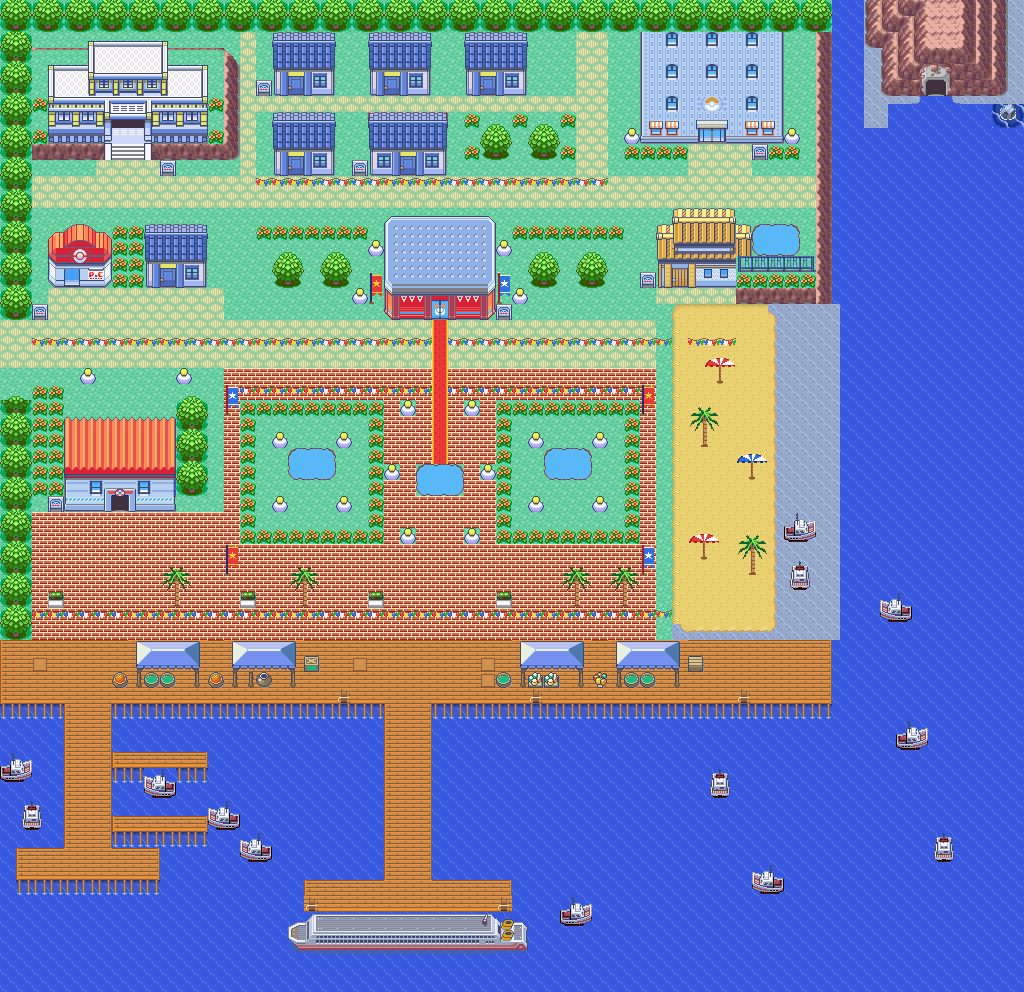
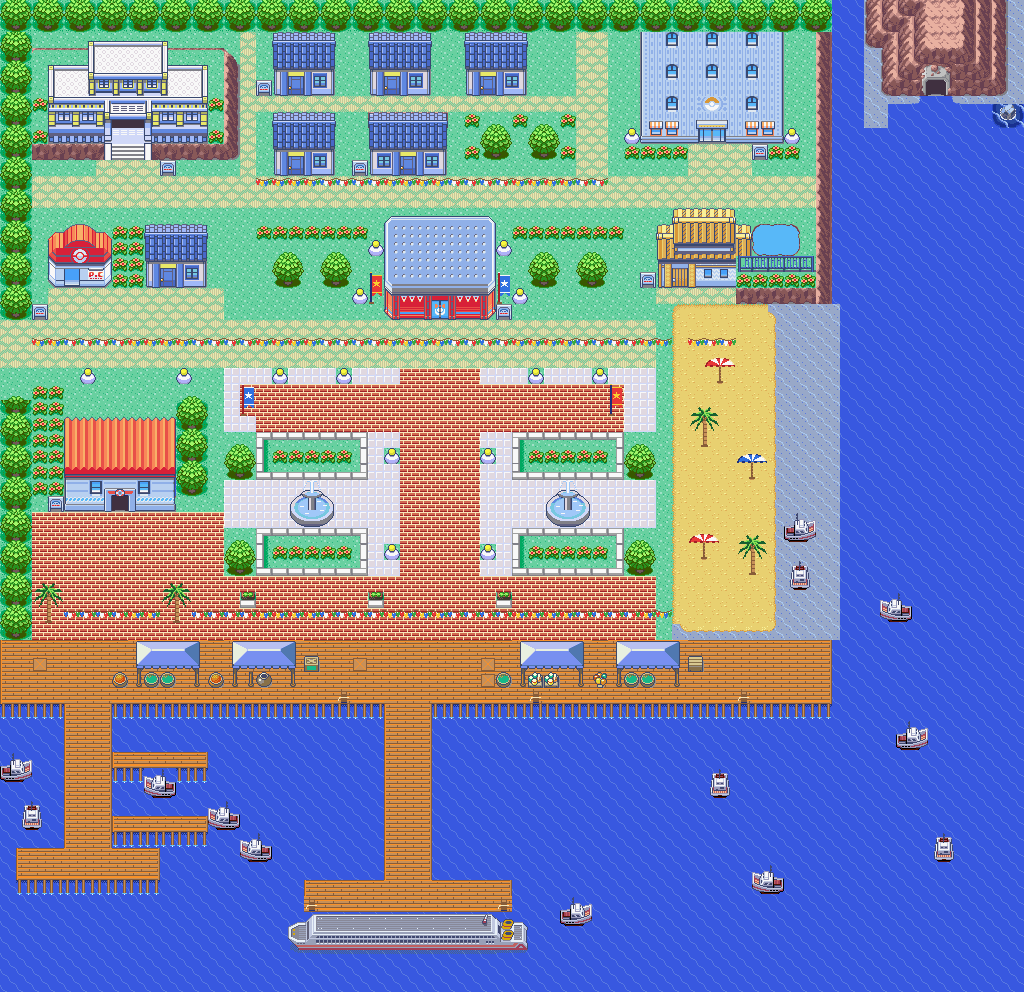
Plaza: grey tiles, inverted brick cross, fountains with flowerbeds
- Grey square tiles (drawn in Lilycove palette 8) frame the plaza.
- Brick floor forms an inverted cross pointing at the Contest Hall.
- Two new stone fountains in Emerald style, each between flowerbeds
  built from the game's white stone kerb tiles with flowers.
- Medium trees on the edges, lamp posts along the brick path; the red
  carpet and the old pond fountains are gone.

Claude-Session: https://claude.ai/code/session_015nAeBdQj1XXGE9TrWVaT6H

Changed region(s): [[0.2188, 0.3125, 0.6562, 0.5938], [0.1562, 0.5625, 0.1875, 0.625], [0.0312, 0.5938, 0.0625, 0.625]]

diff --git a/dev_scripts/lilycove_redesign/plaza_art.py b/dev_scripts/lilycove_redesign/plaza_art.py
@@ -1,0 +1,76 @@
+"""Plaza pieces drawn/recoloured into Lilycove palette 8 (greys + blues), so they sit
+with the rest of Emerald's art: grey paving (Slateport's paving pattern, recoloured)
+and a round stone fountain with a dark outline and 3-tone shading."""
+import math, struct, os
+from PIL import Image
+import render
+
+PAL8_SLOT = 8
+# palette 8 indices
+OUT, DGR, MGR, LGR, WH = 7, 6, 5, 8, 11
+PALE, LB1, LB2, B1, B2 = 1, 9, 10, 3, 4
+
+def _canvas(w, h): return [[0] * w for _ in range(h)]
+def _px(c, x, y, v):
+    if 0 <= y < len(c) and 0 <= x < len(c[0]): c[y][x] = v
+
+def paving():
+    """16x16 grey square tiles (4 per metatile): light face, subtle grout, top-left highlight."""
+    c = _canvas(16, 16)
+    for y in range(16):
+        for x in range(16):
+            gx, gy = x % 8, y % 8
+            if gx == 7 or gy == 7: v = PALE                 # grout
+            elif gx == 0 or gy == 0: v = WH if (gx + gy) < 6 else LGR
+            else: v = LGR
+            c[y][x] = v
+    return c
+
+def fountain():
+    """48x48 round stone fountain seen from above (3/4 view)."""
+    c = _canvas(48, 48)
+    cx, cy, rx, ry = 23.5, 27.0, 21.0, 14.0
+    # front wall of the basin (below the rim)
+    for y in range(48):
+        for x in range(48):
+            e = ((x - cx) / rx) ** 2 + ((y - cy) / ry) ** 2
+            e2 = ((x - cx) / rx) ** 2 + ((y - cy - 5) / ry) ** 2
+            if e > 1 and e2 <= 1 and y > cy:
+                c[y][x] = MGR if y < cy + ry + 3 else DGR
+    # rim + water
+    for y in range(48):
+        for x in range(48):
+            e = ((x - cx) / rx) ** 2 + ((y - cy) / ry) ** 2
+            if e <= 1:
+                if e > 0.70: c[y][x] = LGR if y < cy else PALE          # stone rim
+                else:
+                    c[y][x] = LB1 if e < 0.45 else LB2
+                    if y < cy - 4 and e > 0.5: c[y][x] = B1               # shadow of the rim
+    # ripples
+    for (x0, y0) in [(12, 26), (32, 30), (17, 33), (29, 21), (35, 25)]:
+        for dx in range(4): _px(c, x0 + dx, y0, WH)
+    # pedestal (column) and upper bowl
+    for y in range(15, 30):
+        for x in range(20, 28): c[y][x] = OUT if x in (20, 27) else (LGR if x < 23 else (MGR if x < 26 else DGR))
+    for y in range(9, 19):
+        for x in range(12, 36):
+            e = ((x - 23.5) / 10.5) ** 2 + ((y - 14) / 4.0) ** 2
+            if e <= 1: c[y][x] = (OUT if e > 0.8 and y >= 14 else (LGR if y < 14 else MGR))
+            ein = ((x - 23.5) / 7.5) ** 2 + ((y - 13.5) / 2.2) ** 2
+            if ein <= 1: c[y][x] = LB1 if y >= 13 else LB2
+    # dark outline around the stone parts
+    out = [row[:] for row in c]
+    for y in range(48):
+        for x in range(48):
+            if c[y][x] == 0 and any(0 <= y + dy < 48 and 0 <= x + dx < 48 and c[y + dy][x + dx]
+                                    for dx, dy in ((1, 0), (-1, 0), (0, 1), (0, -1))):
+                out[y][x] = OUT
+    # water jet and falling drops (no outline, like Emerald's water effects)
+    for y in range(1, 13):
+        for x in range(22, 26): out[y][x] = WH if x in (23, 24) else LB1
+    for x in range(19, 29): _px(out, x, 1, WH if 21 < x < 26 else LB1)
+    for (x, y) in [(18, 3), (17, 5), (16, 7), (29, 3), (30, 5), (31, 7), (15, 9), (32, 9)]:
+        _px(out, x, y, LB1)
+    for (x, y) in [(17, 4), (30, 4), (16, 8), (31, 8)]:
+        _px(out, x, y, WH)
+    return out

diff --git a/dev_scripts/lilycove_redesign/layout.py b/dev_scripts/lilycove_redesign/layout.py
@@ -36,17 +36,21 @@ path(0,20,42,23)
 
 # boulevard lamps
 for x in (5,11,35,39): lamp(x,23)
-# ================= PLAZA (y23-35) =================
-brickfill(14,23,41,36)
-for gx in (15,31):
-    fill(gx,25,gx+9,34,GRASS)
-    flowers(gx,25,gx+9,26); flowers(gx,33,gx+9,34)
-    flowers(gx,26,gx+1,33); flowers(gx+8,26,gx+9,33)
-    pond(gx+3,28)
-    lamp(gx+2,27); lamp(gx+6,27); lamp(gx+2,31); lamp(gx+6,31)
-# central axis: avenue of lamps & flower pots towards pier
-for y in (25,33): lamp(25,y); lamp(29,y)
-lamp(24,29); lamp(30,29)
+# ================= PLAZA (y23-35): grey tiles, inverted brick cross, fountains =================
+PX0,PX1,PY0,PY1 = 14,41,23,36          # plaza area; axis x=27 (Contest Hall door)
+paving(PX0,PY0,PX1,PY1)                # grey tiles: contour and floor
+brickfill(25,PY0,30,PY1)               # long arm of the cross, pointing at the hall
+brickfill(16,24,39,27)                 # cross bar, right below the hall
+for qx,flip in ((14,False),(30,True)): # the two lower quadrants (11 x 9)
+    fx = qx+4                          # fountain column
+    flowerbed(qx+2,27,7,3)             # bed above the fountain
+    flowerbed(qx+2,33,7,3)             # bed below the fountain
+    art('fountain',fx,30,bottom='paving')
+    tx = qx if not flip else qx+9      # medium trees on the outer edge
+    tree1(tx,27); tree1(tx,33)
+    lx = qx+10 if not flip else qx     # lamp posts along the brick path
+    lamp(lx,28); lamp(lx,34)
+for x in (17,21,33,37): lamp(x,23)     # lamps along the top contour
 # ================= HARBOR (left) =================
 harbor(4,26)                                 # door (7,31)
 brickfill(2,32,14,36)
@@ -81,20 +85,17 @@ for yy in range(4,8): put(54,yy,SHALLOW)
 # promenade planters (avoid pier axes x=7, x=27)
 for x in (3,15,23,31): put(x,37,T(0x005,1,0))
 # central fountain on main axis
-pond(26,29)
 # sign posts for bg_events
 for sx,sy in [(10,10),(47,9),(2,19),(31,19),(40,17),(3,31),(22,10),(16,5)]: sign(sx,sy)
 
 # ================= FESTIVAL DRESSING (World Contest Season) =================
-carpet(27,20,29)                                   # red carpet hall -> fountain
 for bx,blue in ((23,False),(31,True)): banner(bx,17,'grass',blue)
-for bx,by,blue in ((14,24,True),(40,24,False),(14,34,False),(40,34,True)): banner(bx,by,'brick',blue)
+for bx,blue in ((15,True),(38,False)): banner(bx,24,'brick',blue)   # season banners at the ends of the cross bar
 bunting(2,46,21)                                   # across the avenue
-bunting(15,40,24)                                  # plaza north edge
 bunting(2,42,38)                                   # promenade
 bunting(16,38,11)                                  # north street
 # palms along the promenade
-for px_ in (10,18,35,38): palm(px_,35,'brick')
+for px_ in (2,10): palm(px_,36,'brick')   # promenade palms, outside the plaza
 # beach: umbrellas + palms
 umbrella(44,22); umbrella(46,28,True); umbrella(43,33)
 palm(43,25); palm(46,33)

diff --git a/dev_scripts/lilycove_redesign/compose.py b/dev_scripts/lilycove_redesign/compose.py
@@ -104,3 +104,17 @@ def art(name,x,y,pal=None,bottom='water',walk_rows=0):
         for mx in range(w):
             walk = my<walk_rows
             put(x+mx,y+my,('ART',(name,mx,my,pal,bottom),0 if walk else 1,3 if walk else 0))
+
+def paving(x0,y0,x1,y1):
+    for y in range(y0,y1):
+        for x in range(x0,x1): put(x,y,('ART',('paving',0,0,None,'none'),0,3))
+CURB={'tl':0x3d,'t':0x3e,'tr':0x3f,'l':0x45,'c':0x46,'r':0x47,'bl':0x4d,'b':0x4e,'br':0x4f}
+def flowerbed(x0,y0,w,h):
+    """Emerald white stone kerb with red flowers inside (solid)."""
+    for j in range(h):
+        for i in range(w):
+            t = j==0; b = j==h-1; l = i==0; r = i==w-1
+            if t: k='tl' if l else ('tr' if r else 't')
+            elif b: k='bl' if l else ('br' if r else 'b')
+            else: k='l' if l else ('r' if r else None)
+            put(x0+i,y0+j,T(CURB[k],1,0) if k else T(0x004,1,0))

diff --git a/dev_scripts/lilycove_redesign/build_city_tileset.py b/dev_scripts/lilycove_redesign/build_city_tileset.py
@@ -79,7 +79,13 @@ def build(M, festival_ids):
             top.append(t | (pal << 12) if t else 0)
         if not free_meta: raise SystemExit('out of metatiles for port art')
         mid = free_meta.pop(0)
-        new_metas[mid] = BOTTOM[bottom] + top
+        if bottom == 'paving' and 'paving' not in BOTTOM:
+            pv = port_art.ART['paving']()
+            BOTTOM['paving'] = [(add_tile(q) or 0) | (port_art.PAL_OF['paving'] << 12) for q in _split16(pv, 0, 0)]
+        if name in port_art.FLOOR:
+            new_metas[mid] = top + [0] * 4
+        else:
+            new_metas[mid] = BOTTOM[bottom] + top
         new_attrs[mid] = 0
         art_ids[key] = mid
     # resolve placeholders

diff --git a/dev_scripts/lilycove_redesign/port_art.py b/dev_scripts/lilycove_redesign/port_art.py
@@ -45,3 +45,11 @@ for _slot, _makers in _GROUPS.items():
         PAL_OF[_n] = _slot
 
 ART = {n: (lambda n=n: _CANVAS[n]) for n in _CANVAS}
+
+# plaza art, drawn directly in Lilycove palette 8 (no quantisation needed)
+import plaza_art as _P
+for _n, _f in (('paving', _P.paving), ('fountain', _P.fountain)):
+    _CANVAS[_n] = _f()
+    PAL_OF[_n] = _P.PAL8_SLOT
+    ART[_n] = (lambda n=_n: _CANVAS[n])
+FLOOR = {'paving'}   # art drawn in the bottom layer (walkable floor)

diff --git a/docs/lilycove/README.md b/docs/lilycove/README.md
@@ -71,6 +71,15 @@ python3 dev_scripts/lilycove_redesign/vivid_palettes.py
 python3 dev_scripts/lilycove_redesign/build_lilycove.py --preview /tmp/lilycove.png
 ```
 
+## Praça (em frente ao Centro de Concursos)
+* Contorno e piso em **ladrilho cinza** (desenhado na paleta 8 de Lilycove).
+* **Cruz invertida de tijolos**: braço longo no eixo do Centro de Concursos e travessa
+  logo abaixo do prédio.
+* Duas **fontes** de pedra (desenho novo, contorno escuro e 3 tons como no Emerald),
+  cada uma entre **canteiros** com o meio-fio de pedra branca original do jogo e flores.
+* **Árvores médias** nas bordas e **postes de luz** ao longo do caminho de tijolos.
+* A rua (avenida) separa o prédio da praça. O tapete vermelho foi removido.
+
 ## Porto (zona sul)
 Arte no estilo do próprio Emerald, extraída dos gráficos originais por
 `authentic_art.py` (fundo removido e cores reunidas em duas paletas próprias da cidade,
